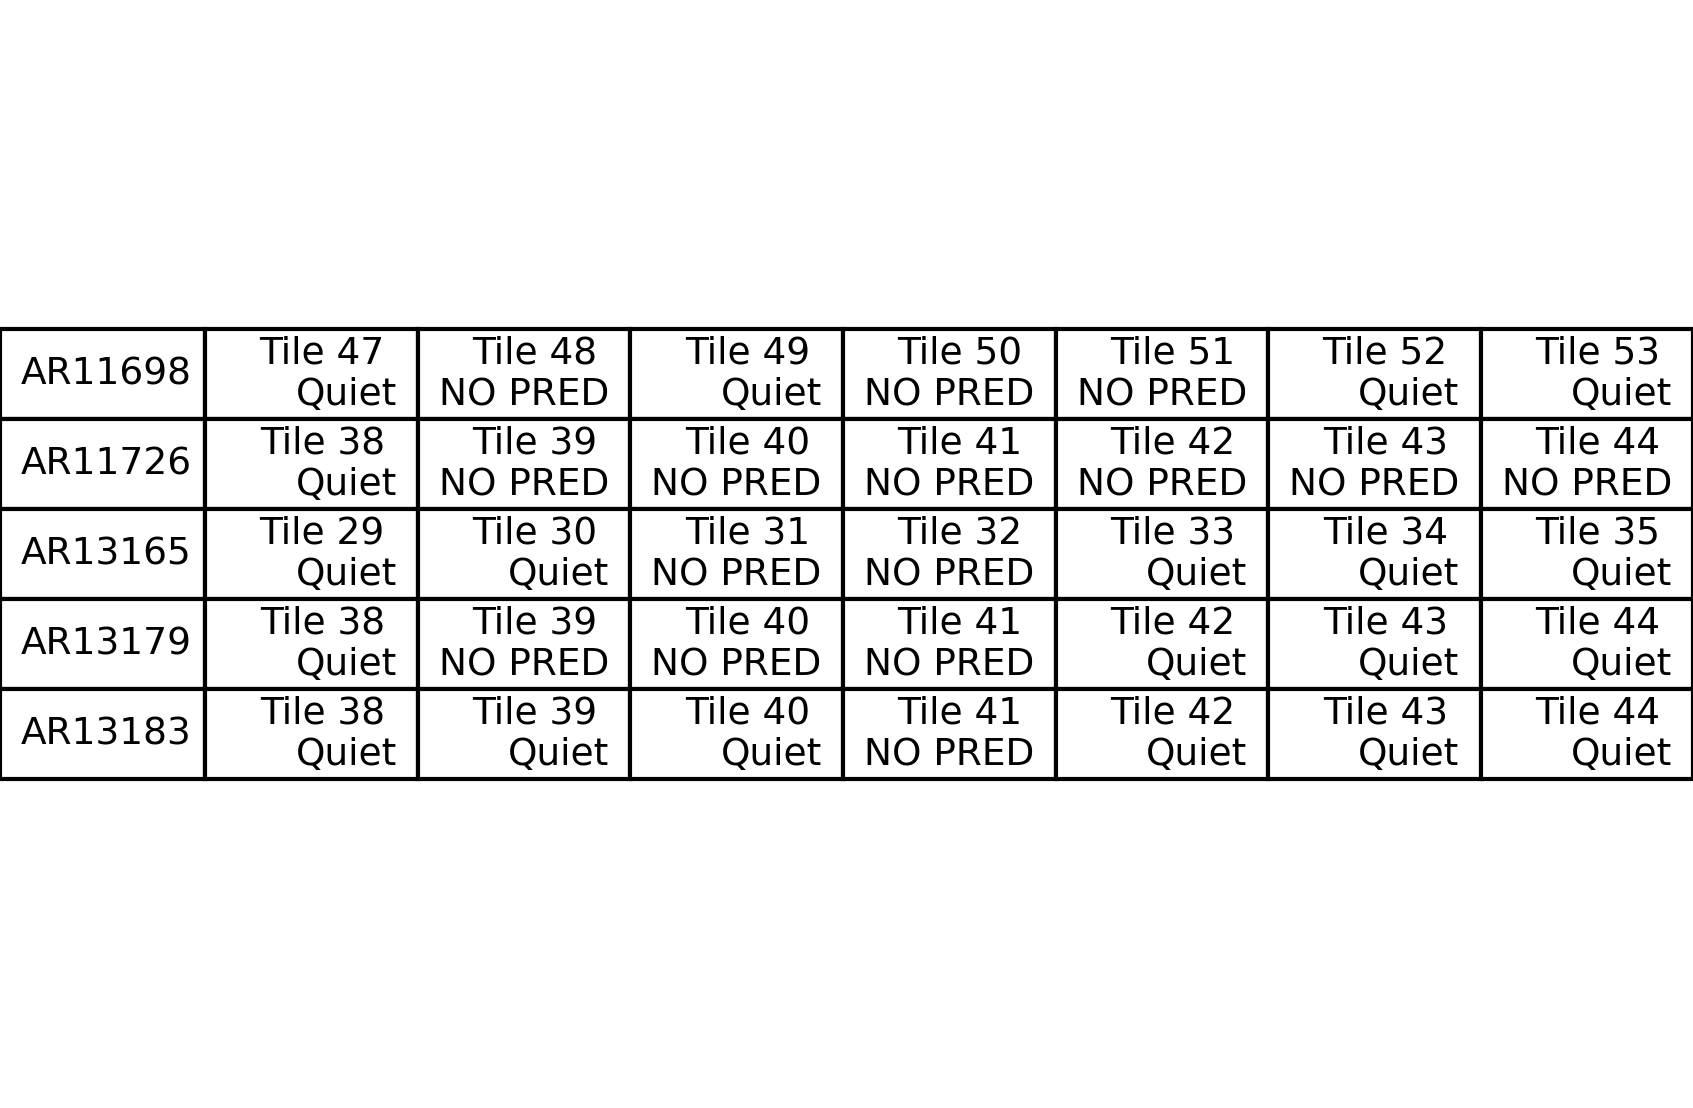
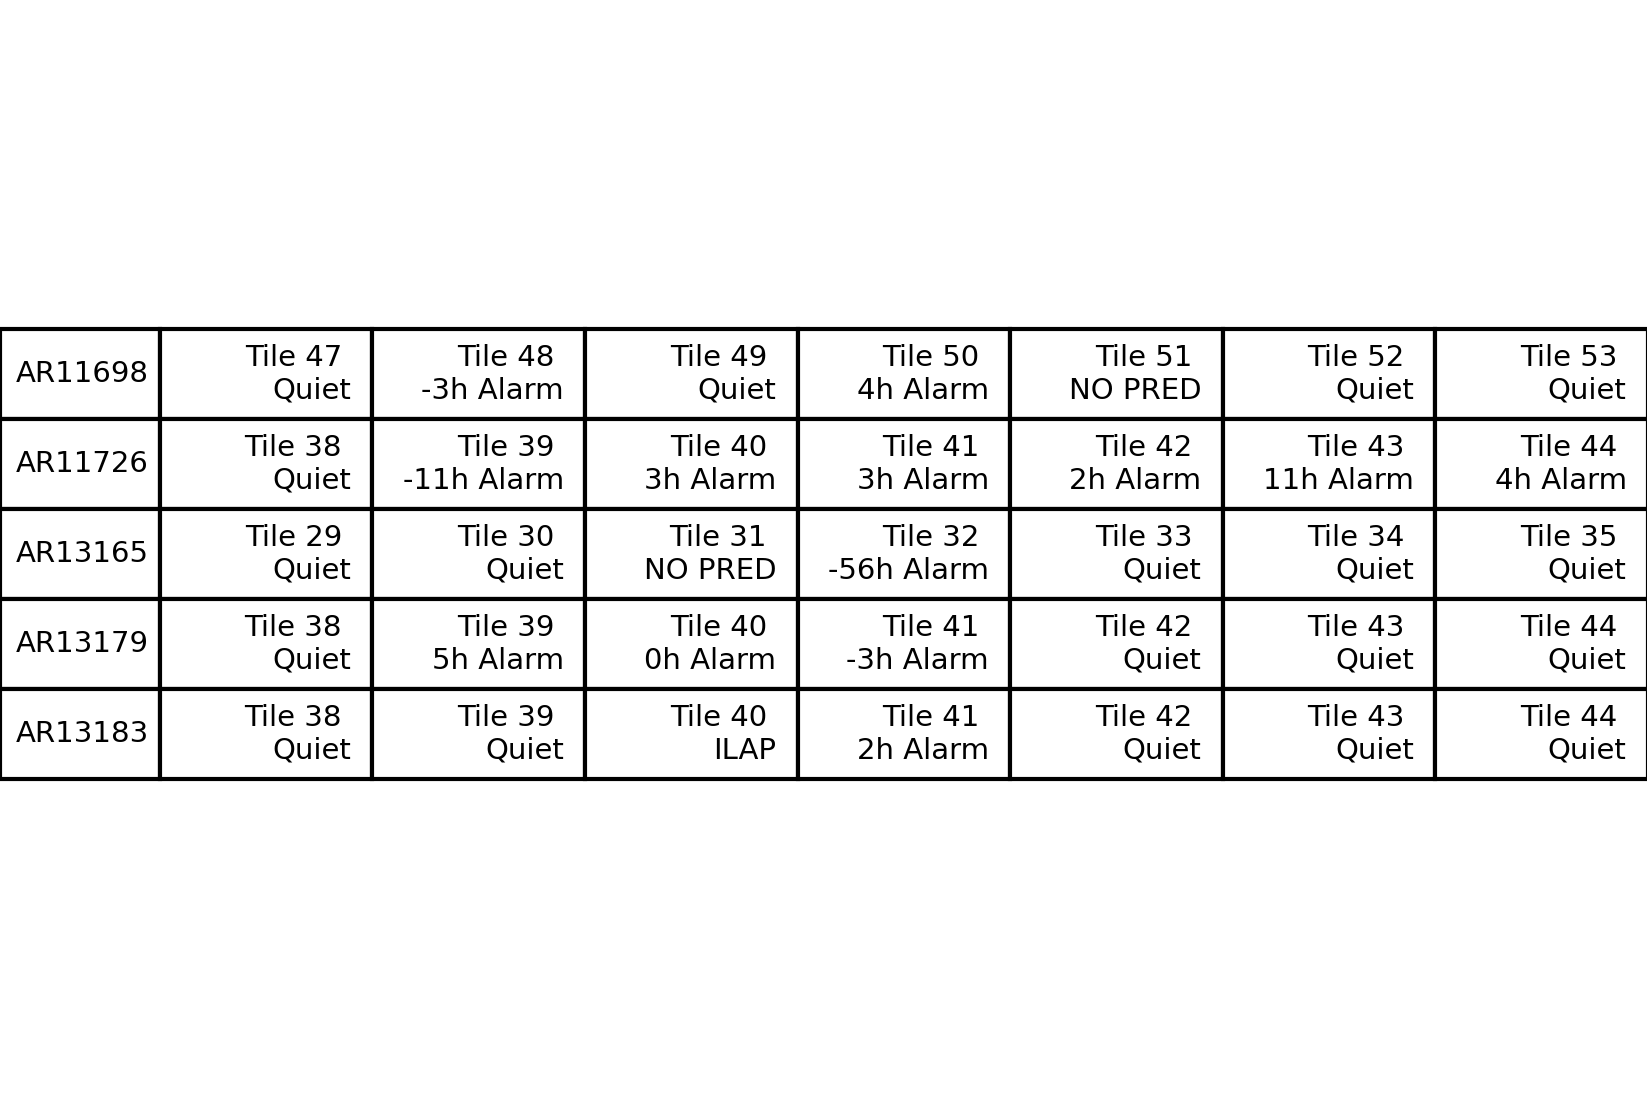
two diff train)

Changed region(s): [[0.1548, 0.3069, 0.9909, 0.7058], [0.0, 0.3069, 0.1239, 0.7058]]

diff --git a/lstm/functions.py b/lstm/functions.py
@@ -18,7 +18,7 @@ import re
 from collections import OrderedDict
 import glob
 
-isVanillaLSTM = False
+isVanillaLSTM = True
 warnings.filterwarnings("ignore")
 l = re.split(r"[\\/]", os.path.abspath(os.getcwd()))
 BASE_PATH = "/".join(l[:-1]) + "/"
@@ -306,10 +306,9 @@ def process_data(maps, flux, cont_int, m_scale, f_scale, cont_int_scale):
     return inputs, mag_flux
 
 
-def get_params(path):
+def get_params(path, file):
     pth_files = glob.glob(
-        path
-        + "SAR_EMERGENCE_RESEARCH/lstm/results/pred12_r4_i110_n1_h32_e10_lr0.00050000_d0.0.pth"
+        path + "SAR_EMERGENCE_RESEARCH/lstm/results/" + file
     )  # Assuming there's only one .pth file and its naming follows the specific pattern
     filename = pth_files[0]
     matches = re.findall(
@@ -478,7 +477,9 @@ def prepare_dataset(
 
 
 # --- Model Training & Evaluation ---
-def train_epoch(model, dataloader, loss_fn, optimizer, device, teacher_ratio, alpha):
+def train_epochHybrid(
+    model, dataloader, loss_fn, optimizer, device, teacher_ratio, alpha
+):
     model.train()
     total_loss = 0
     loss_scaler = 100.0
@@ -507,6 +508,33 @@ def train_epoch(model, dataloader, loss_fn, optimizer, device, teacher_ratio, al
         scaled_loss.backward()
         torch.nn.utils.clip_grad_norm_(model.parameters(), max_norm=1.0)
         optimizer.step()
+        total_loss += loss.item()
+
+    return total_loss / len(dataloader)
+
+
+def train_epoch(model, dataloader, loss_fn, optimizer, device):
+    """Runs a single training epoch."""
+
+    model.train()
+
+    total_loss = 0
+
+    for x, y in dataloader:
+        x, y = x.to(device), y.to(device)
+
+        optimizer.zero_grad()
+
+        outputs = model(x)
+
+        loss = loss_fn(outputs, y)
+
+        loss.backward()
+
+        torch.nn.utils.clip_grad_norm_(model.parameters(), max_norm=1.0)
+
+        optimizer.step()
+
         total_loss += loss.item()
 
     return total_loss / len(dataloader)
@@ -573,9 +601,7 @@ def validate_model(model, dataloader, device):
         for x, y in dataloader:
             x, y = x.to(device), y.to(device)
 
-            # --- KEY CHANGE ---
-            # Do NOT pass 'y' during validation/inference
-            preds = model(x, y=None)
+            preds = model(x)
 
             all_preds.append(preds.cpu().numpy())
             all_y.append(y.cpu().numpy())

diff --git a/lstm/eval.py b/lstm/eval.py
@@ -75,7 +75,7 @@ def eval_AR_emergence_with_plots(
         learning_rate,
         dropout,
         filename,
-    ) = get_params(path)
+    ) = get_params(path, 'pred12_r4_i110_n4_h10_e5_lr0.00093000_d0.0.pth')
     # print(
     #     f"Extracted from filename: Time Window: {num_pred}, Rid of Top: {rid_of_top}, Number of Inputs: {num_in}, Number of Layers: {num_layers}, Hidden Size: {hidden_size}, Number of Epochs: {n_epochs}, Learning Rate: {learning_rate}"
     # )  # Print extracted values for confirmation

diff --git a/lstm/train.py b/lstm/train.py
@@ -153,7 +153,7 @@ def main(config):
     # --- Training Loop ---
     print("Starting training...")
     for epoch in range(config["n_epochs"]):
-        train_loss = train_epoch(model, train_loader, loss_fn, optimizer, device, 0.1, 0.1)
+        train_loss = train_epoch(model, train_loader, loss_fn, optimizer, device)
         val_rmse = validate_model(model, val_loader, device)
 
         lr = scheduler.get_last_lr()[0]
